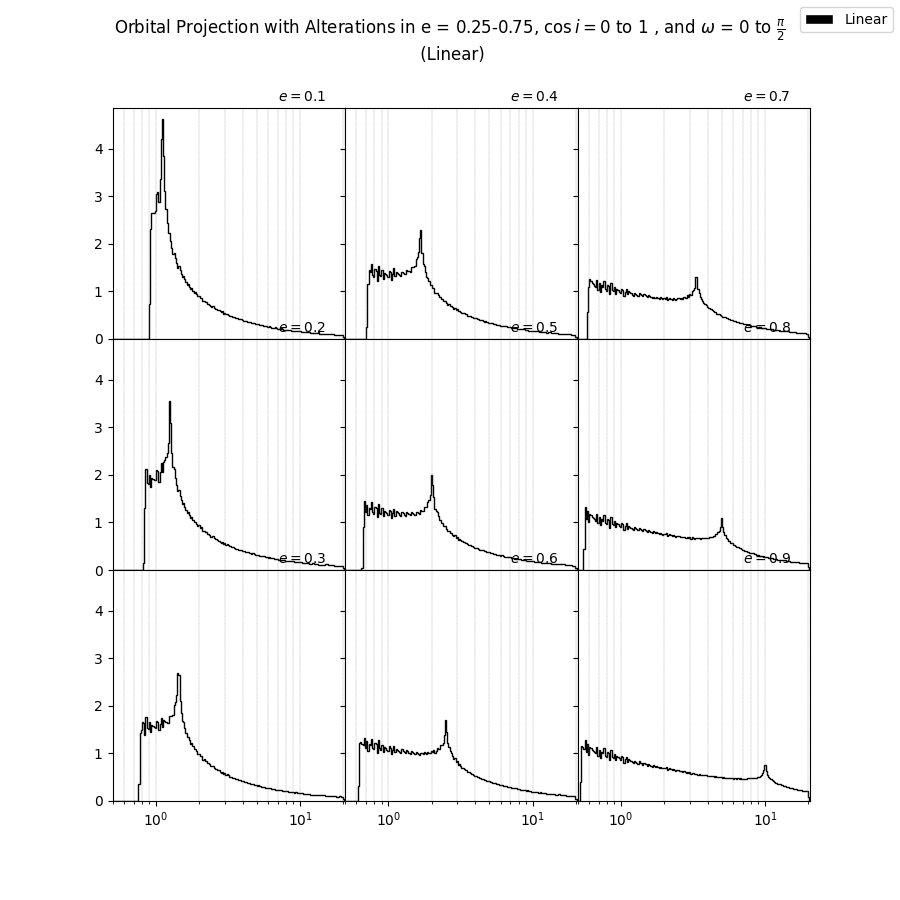
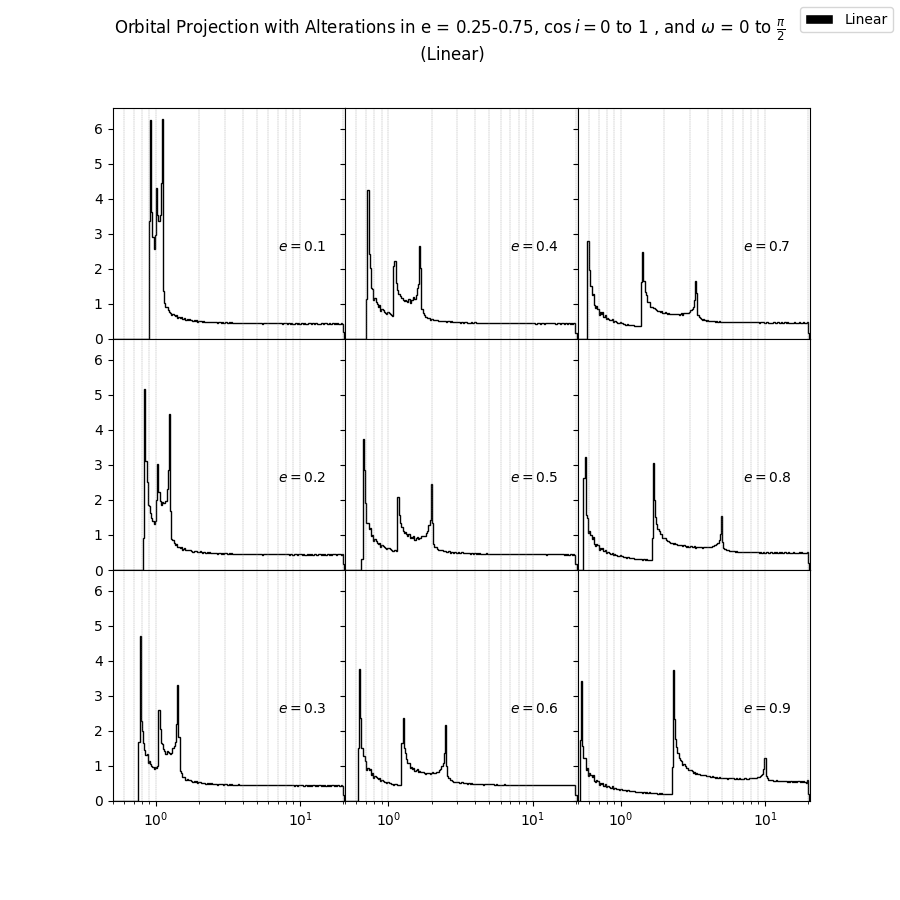
Created new marginalization for e, can now specify what type of stepthrough you want, created new plots for 9 plot and eccentricity

diff --git a/Sep.py b/Sep.py
@@ -402,17 +402,18 @@ def Rchange(param, coords = False, inclination = False):
         # Goes through each value of a in the stepthrough
         for aval in stepthrough:
             for ival in i:
-                x, y, t = OrbGeoAlt(a = aval, e = e, i = ival ,w = w)
-                r = np.sqrt(x**2+y**2)
-                # Whereever there is this value, it finds the indices of each point in the list
-                conlin = np.where(np.abs(r-r0)<=0.01)
+                for eval in e:    
+                    x, y, t = OrbGeoAlt(a = aval, e = eval, i = ival ,w = w)
+                    r = np.sqrt(x**2+y**2)
+                    # Whereever there is this value, it finds the indices of each point in the list
+                    conlin = np.where(np.abs(r-r0)<=0.01)
         
-                if coords == False and inclination:
-                    # Has brackets with 0 b/c conlin is an array of length 1, to get to values u must flatten
-                    if aval in totlindict:
-                        totlindict[aval] += len(conlin[0])
-                    else:
-                        totlindict[aval] = len(conlin[0])
+                    if coords == False and inclination:
+                        # Has brackets with 0 b/c conlin is an array of length 1, to get to values u must flatten
+                        if aval in totlindict:
+                            totlindict[aval] += len(conlin[0])
+                        else:
+                            totlindict[aval] = len(conlin[0])
                 else: 
                     # Same thing as coords == False but has coord lists for Multiplot
                     totlindict[val] = len(conlin[0])
@@ -444,42 +445,49 @@ def Rchange(param, coords = False, inclination = False):
             
                 conlin = np.where(np.abs(r-r0)<=0.01)
                 totlindict[val] = len(conlin[0])
-                totlinsemidict[val] = round(len(conlin[0]) / val)
+            # Power Law Portion
+            stepthrough = stepdata(2, 0.5, end, 10000)
+            for val in stepthrough:
+                x, y, t = OrbGeoAlt(a = val, e = e, i = i ,w = w)
+    
+                r = np.sqrt(x**2+y**2)
+            
+                conlin = np.where(np.abs(r-r0)<=0.01)
+                totlinsemidict[val] = round(len(conlin[0]))
         else:
             if Linear == "Log":
                 # Log Portion
-                # steps = np.linspace(0, 10000,10000)
-                # loga = np.log10(0.5) + steps/10000 * (np.log10(end)-np.log10(0.5))
-                # stepthrough = 10**loga
-                stepthrough = stepdata(1, 0.5, end, 10000)
+                steps = np.linspace(0, 10000,10000)
+                loga = np.log10(0.5) + steps/10000 * (np.log10(end)-np.log10(0.5))
+                stepthrough = 10**loga
                 for aval in stepthrough:
                     for ival in i:
+                        for eval in e:
+                            x, y, t = OrbGeoAlt(a = aval, e = eval, i = ival ,w = w)
+                            r = np.sqrt(x**2+y**2)
                     
-                        x, y, t = OrbGeoAlt(a = aval, e = e, i = ival ,w = w)
-                        r = np.sqrt(x**2+y**2)
-                    
-                        conlog = np.where(np.abs(r-r0)<=0.01)
-                        if aval in totlogdict:
-                            totlogdict[aval] += len(conlog[0])
-                        else:
-                            totlogdict[aval] = len(conlog[0])
+                            conlog = np.where(np.abs(r-r0)<=0.01)
+                            if aval in totlogdict:
+                                totlogdict[aval] += len(conlog[0])
+                            else:
+                                totlogdict[aval] = len(conlog[0])
     elif Linear == "Linear / a":
         # Linear / a Portion
-        # stepthrough = np.arange(0.5, end + step, step)
-        stepthrough = stepdata(0, 0.5, end, 10000)
+        stepthrough = stepdata(0.5, 0.5, end, 10000)
         for aval in stepthrough:
             for ival in i:
-                x, y, t = OrbGeoAlt(a = aval, e = e, i = ival ,w = w)
-                r = np.sqrt(x**2+y**2)
-                # Whereever there is this value, it finds the indices of each point in the list
-                conlin = np.where(np.abs(r-r0)<=0.01)
-                # Has brackets with 0 b/c conlin is an array of length 1, to get to values u must flatten
+                for eval in e:
+                    x, y, t = OrbGeoAlt(a = aval, e = eval, i = ival ,w = w)
+                    r = np.sqrt(x**2+y**2)
+                    # Whereever there is this value, it finds the indices of each point in the list
+                    conlin = np.where(np.abs(r-r0)<=0.01)
+                    # Has brackets with 0 b/c conlin is an array of length 1, to get to values u must flatten
                 
-                # REMINDER: THIS IS FOR LINEAR / A, I JUST REMOVED THE totlinsemidict FROM THIS FOR EASIER INTERPRETATION
-                if aval in totlindict:
-                    totlindict[aval] = round(len(conlin[0]) / aval)
-                else:
-                    totlindict[aval] = round(len(conlin[0]) / aval)
+                    # REMINDER: THIS IS FOR LINEAR / A, I JUST REMOVED THE totlinsemidict FROM THIS FOR EASIER INTERPRETATION
+                    if aval in totlindict:
+                        totlindict[aval] = round(len(conlin[0]) / aval)
+                    else:
+                        totlindict[aval] = round(len(conlin[0]) / aval)
     return totlindict, xlist, ylist, totlogdict, totlinsemidict
 
 def stepdata(alpha, xmin, xmax, nsamples):
@@ -557,7 +565,7 @@ def WorkProj(param):
     
     return list1, param, listt
 
-def DataHist(w = 0, step = 0.002, end = 10, which = "Linear", inclination = False, istep = None):
+def DataHist(w = 0, step = 0.002, end = 10, which = "Linear", inclination = False, istep = None, estep = None):
     """
     """
     # Goes from both Linear and Log calculations to just Linear
@@ -575,22 +583,21 @@ def DataHist(w = 0, step = 0.002, end = 10, which = "Linear", inclination = Fals
     ]
     
     if inclination:
-        param = [
-            # Row 1
-            (0.1, istep, w, end, step, Linear, inclination), (0.40, istep, w, end, step, Linear, inclination), (0.7, istep, w, end, step, Linear, inclination),
-            # Row 2     
-            (0.2, istep, w, end, step, Linear, inclination), (0.50, istep, w, end, step, Linear, inclination), (0.8, istep, w, end, step, Linear, inclination),     
-            # Row 3     
-            (0.3, istep, w, end, step, Linear, inclination), (0.6, istep, w, end, step, Linear, inclination), (0.9, istep, w, end, step, Linear, inclination)
+        # param = [
+        #     # Row 1
+        #     (0.1, istep, w, end, step, Linear, inclination), (0.40, istep, w, end, step, Linear, inclination), (0.7, istep, w, end, step, Linear, inclination),
+        #     # Row 2     
+        #     (0.2, istep, w, end, step, Linear, inclination), (0.50, istep, w, end, step, Linear, inclination), (0.8, istep, w, end, step, Linear, inclination),     
+        #     # Row 3     
+        #     (0.3, istep, w, end, step, Linear, inclination), (0.6, istep, w, end, step, Linear, inclination), (0.9, istep, w, end, step, Linear, inclination)
             
-                 ]
-    
+        #          ]
+        param = [estep, istep, w, end, step, Linear, inclination]
     
     start = time.perf_counter()
     # Multi Processing
     if inclination == True:
-        with Pool(processes = 9) as pool:
-            totlist = pool.map(Rchange, param)
+        totlist = Rchange(param = param)
     else:
         with Pool(processes = 6) as pool:
             totlist = pool.map(Rchange, param)
@@ -786,7 +793,7 @@ def MultiPlotProj(w = 0, start = 0.5, end = 20, step = 0.5):
     
     return rlist
 
-def MultiPlotHist(w = 0, step = 0.002, end = 10, Linearonly = True):
+def MultiPlotHist(w = 0, step = 0.002, end = 10, which = "Log"):
     """
     """
     
@@ -794,24 +801,25 @@ def MultiPlotHist(w = 0, step = 0.002, end = 10, Linearonly = True):
     # totloglist = [[] for _ in range(12)]
     # totlinsemilist = [[] for _ in range(12)]
     
-    if Linearonly == True:
+    if which == "Linear":
         colorlist = ["black"]
     else:
         colorlist = ["black", "red", "blue"]
     
-    totlist, param = DataHist(w = w, step = step, end = end, Linearonly = Linearonly)
+    totlist, param = DataHist(w = w, step = step, end = end, which = which)
     
     
     fig, axs = plt.subplots(3,4, figsize = (9,9), sharex=True,sharey=True,gridspec_kw=dict(hspace=0,wspace=0))               
-    if Linearonly == True:
-        fig.suptitle("Orbital Projection with Alterations in e, i, and "r"$\omega$ = $\frac{\pi}{2}$ \n (Linear)")
+    if which == "Linear":
+        fig.suptitle("Orbital Projection with Alterations in e, i, and "r"$\omega$ = $\frac{\pi}{2}$" f"\n (Linear)")
     else:
-        fig.suptitle("Orbital Projection with Alterations in e, i, and "r"$\omega$ = $\frac{\pi}{2}$ \n (For Linear, Lin Semi, & Log)")
+        fig.suptitle("Orbital Projection with Alterations in e, i, and "r"$\omega$ = $\frac{\pi}{2}$" f"\n (For Linear, Log, & Power Law)")
     # Iterates through each subplot in the 3x4 figure
     
     for j, ax  in enumerate(axs.flatten()):
         steplindict, x, y, steplogdict, steplinsemidict = totlist[j]
         
+        iterparam = param[j]
         totliniter = steplindict
         totlinitersemi = steplinsemidict
         totlogiter = steplogdict
@@ -833,7 +841,7 @@ def MultiPlotHist(w = 0, step = 0.002, end = 10, Linearonly = True):
         
         # Creates the log spaced bins for our data
         # Stupid fix to stupid problems :)
-        if j == 0 and Linearonly == True:
+        if j == 0 and which == "Linear":
             logbins_lin = np.linspace(amin,amax,1000+1)
         else:
             if j == 0:
@@ -842,7 +850,7 @@ def MultiPlotHist(w = 0, step = 0.002, end = 10, Linearonly = True):
             else:    
                 logbins_lin = np.geomspace(amin,amax, nbin)
                 logbins_log = np.geomspace(amin,amax,nbin)
-        if Linearonly == True:
+        if which == "Linear":
             
             datahist_lin, bins, patches_lin = ax.hist(
                 totlinlist, bins=logbins_lin, range=(0.5, end+0.5),
@@ -865,7 +873,7 @@ def MultiPlotHist(w = 0, step = 0.002, end = 10, Linearonly = True):
                 stacked=True, histtype="step", alpha = 0.40, edgecolor = "blue",
                 weights=weights_linsemi, fc = "none",
             )
-        if Linearonly == True:
+        if which == "Linear":
             for patch in patches_lin:
                 patch.set_edgecolor("k")
         else:
@@ -878,25 +886,27 @@ def MultiPlotHist(w = 0, step = 0.002, end = 10, Linearonly = True):
         ax.set_xlim(0.5,20.5)
         ax.set_ylim(0,10)
         ax.set_xscale("log")
-    
-    
-    plt.text(1.25e-6,25,"e=0")
-    plt.text(1.25e-6,15,"e=0.5")
-    plt.text(1.25e-6,5,"e=0.9")
-    plt.text(4e-5,30.5,"i=0")
-    plt.text(1.5e-3,30.5,"i=30")
-    plt.text(5.5e-2,30.5,"i=60")
-    plt.text(2.75, 30.5,"i=90")
+        ax.text(6e0, 8.5, f"$e = {iterparam[0]}$") 
+        ax.text(6e0, 7.5, f"$i = {round(iterparam[1],2)}$")
+        ax.grid(True,color = "grey", linestyle="--", linewidth="0.25", axis = "x", which = "both")
+        
+    # plt.text(1.25e-6,25,"e=0")
+    # plt.text(1.25e-6,15,"e=0.5")
+    # plt.text(1.25e-6,5,"e=0.9")
+    # plt.text(4e-5,30.5,"i=0")
+    # plt.text(1.5e-3,30.5,"i=30")
+    # plt.text(5.5e-2,30.5,"i=60")
+    # plt.text(2.75, 30.5,"i=90")
     handles = [patches.Rectangle((0,0),1,1,color = c, ec = "w") for c in colorlist]
-    if Linearonly == True:
+    if which == "Linear":
         labels = ["Linear"]
     else:
-        labels = ["Linear", "Log", "Linear / a"]
+        labels = ["Linear", "Log", r"Power Law: $\alpha = 2$"]
     fig.legend(handles, labels)
-    if Linearonly == True:
+    if which == "Linear":
         plt.savefig('/College Projects/Microlensing Separation/Figures/MultiHist_omega_pi_2_0001_Linear.png')
     else:
-        plt.savefig('/College Projects/Microlensing Separation/Figures/MultiHist_omega_pi_2_0001_LinLinSemiLog.png')
+        plt.savefig('/College Projects/Microlensing Separation/Figures/MultiHist_omega_pi_2_0001_LinLawLog.png')
     plt.show()
     return totlist
 
@@ -921,9 +931,12 @@ def CompletePlotHist(w = 0, step = 0.002, end = 20, inclination = True, which = 
     # Dictionary for storing Rchange results
     totlindict = [{} for _ in range(12)]
     totlogdict = [{} for _ in range(12)]
-    totlinlist = [[] for _ in range(12)]
-    totloglist = [[] for _ in range(12)]
-    tothistlist = [[] for _ in range(9)]
+    # totlinlist = [[] for _ in range(12)]
+    # totloglist = [[] for _ in range(12)]
+    # tothistlist = [[] for _ in range(9)]
+    totlinlist = []
+    totloglist = []
+    tothistlist = []
     
     # Create variables for bin sizes
     nbin = 200
@@ -936,16 +949,17 @@ def CompletePlotHist(w = 0, step = 0.002, end = 20, inclination = True, which = 
     logbins_log = np.geomspace(amin,amax,nbin)
     
     # For making the stepthrough of omega
-    wstep = np.linspace(0,np.pi/2,2)
+    wstep = np.linspace(0,np.pi/2,10)
     if inclination:
         # REMEMBER TO REMOVE IF STATMENTS FOR LINEAR (will eventually want linear in both)
-        cosstep = np.linspace(0,1,2)
+        cosstep = np.linspace(0,1,10)
         istep = np.arccos(cosstep)
+        estep = np.linspace(0.1,0.9, 10)
     for i in wstep:
         print("Value of omega currently: ", i, " and current position in array: ", np.where(wstep == i))
         # Each omega calculates its own data groups
         if inclination:
-            steptotlist, param = DataHist(w = i, step = step, end = end, which = which, inclination = inclination, istep = istep)
+            steptotlist, param = DataHist(w = i, step = step, end = end, which = which, inclination = inclination, istep = istep, estep = estep)
         else:
             steptotlist, param = DataHist(w = i, step = step, end = end, which = which)
         # Once complete, takes the data through each set
@@ -979,11 +993,11 @@ def CompletePlotHist(w = 0, step = 0.002, end = 20, inclination = True, which = 
             
                 # histlist.append((hist_log, histbins_log))
         else:
-                for j in range(len(steptotlist)):
-                    steplindict, x, y, steplogdict, blank = steptotlist[j]
-                    
-                    histlist = tothistlist[j]
-                    
+                # for j in range(len(steptotlist)):
+                    # steplindict, x, y, steplogdict, blank = steptotlist[j]
+                    steplindict, x, y, steplogdict, blank = steptotlist
+                    # histlist = tothistlist[j]
+                    histlist = tothistlist
                     if which == "Log":
         
                         totlogiter = steplogdict
@@ -1006,7 +1020,7 @@ def CompletePlotHist(w = 0, step = 0.002, end = 20, inclination = True, which = 
                     else:
                         return(print(f"Warning: {which} is not a valid point. Please use (Log) or (Linear) as your options"))
                     
-                    tothistlist[j] = histlist
+                    tothistlist = histlist
         gc.collect()
     
     # for j in range(12):
@@ -1015,10 +1029,10 @@ def CompletePlotHist(w = 0, step = 0.002, end = 20, inclination = True, which = 
     #     totloglist[j] = [key for key, val in totlogdict[j].items() for _ in range(val)]
                 
     if inclination:
-        fig, axs = plt.subplots(3,3, figsize = (9,9), sharex=True,sharey=True,gridspec_kw=dict(hspace=0,wspace=0))
+        fig, ax = plt.subplots(figsize = (9,9), sharex=True,sharey=True,gridspec_kw=dict(hspace=0,wspace=0))
     else:
         fig, axs = plt.subplots(3,4, figsize = (9,9), sharex=True,sharey=True,gridspec_kw=dict(hspace=0,wspace=0))               
-    fig.suptitle("Orbital Projection with Alterations in e = 0.25-0.75, "r"$\cos{i} = 0$ to 1 , and " r"$\omega$ = $0$ to $\frac{\pi}{2}$" f"\n (Linear)")
+    fig.suptitle("Orbital Projection with Alterations in e = 0.1-0.9, "r"$\cos{i} = 0$ to 1 , and " r"$\omega$ = $0$ to $\frac{\pi}{2}$" f"\n (Log)")
     # Iterates through each subplot in the 3x4 figure
     if inclination == False:
         for j, ax  in enumerate(axs.flatten()):
@@ -1068,9 +1082,12 @@ def CompletePlotHist(w = 0, step = 0.002, end = 20, inclination = True, which = 
         ax.set_ylim(0,10)
         ax.set_xscale("log")
     else:
-        for j, ax  in enumerate(axs.flatten()):
-            histlist = tothistlist[j]
-            iterparam = param[j]
+        # for j, ax  in enumerate(axs.flatten()):
+            # histlist = tothistlist[j]
+            # iterparam = param[j]
+            histlist = tothistlist
+            iterparam = param
+            
             for val in range(len(histlist)):
                 hist, bins = histlist[val]
                 if val == 0:
@@ -1082,12 +1099,10 @@ def CompletePlotHist(w = 0, step = 0.002, end = 20, inclination = True, which = 
                     StepPatch = ax.stairs(tothist * norm, bins, edgecolor = colorlist[0], fill = False)
                 else:
                     tothist = tothist + hist
-            
-            ax.text(7e0, 2.5, f"$e = {iterparam[0]}$")    
+              
             ax.grid(True,color = "grey", linestyle="--", linewidth="0.25", axis = "x", which = "both")
-        ax.set_xlim(0.5,20.5)
-        # axs.set_ylim(0,1)
-        ax.set_xscale("log")
+            ax.set_xlim(0.5,20.5)
+            ax.set_xscale("log")
         
     # Text for understanding positions of each figure 
     
@@ -1110,14 +1125,14 @@ def CompletePlotHist(w = 0, step = 0.002, end = 20, inclination = True, which = 
     if inclination == False:
         plt.savefig('/College Projects/Microlensing Separation/Figures/CompleteHist_0002_LinLog.png')
     else:
-        plt.savefig('/College Projects/Microlensing Separation/Figures/CompleteHist_9plots_incline_75_0002_Lin.png')
+        plt.savefig('/College Projects/Microlensing Separation/Figures/CompleteHist_eccent_incline_10_0002_Log.png')
     plt.show()
     return colorlist
     
 if __name__ == "__main__":
     # rlist = MultiPlotProj(w = np.pi/4., start = 0.5, end = 20, step = 0.5)
-    # rtemp = MultiPlotHist(w = np.pi/2., step = 0.002, end = 20, Linearonly = False)
-    clist = CompletePlotHist(w = 0, step = 0.002, end = 20, inclination = True, which = "Linear")
+    # rtemp = MultiPlotHist(w = np.pi/2., step = 0.002, end = 20, which = "Log")
+    clist = CompletePlotHist(w = 0, step = 0.002, end = 20, inclination = True, which = "Log")
 
 # x,y,t = OrbGeoAlt(a=1, e=0.0,w=np.pi/4, i = np.pi/6)
 # param = [0.5, 0.5, np.pi/2, 0]
